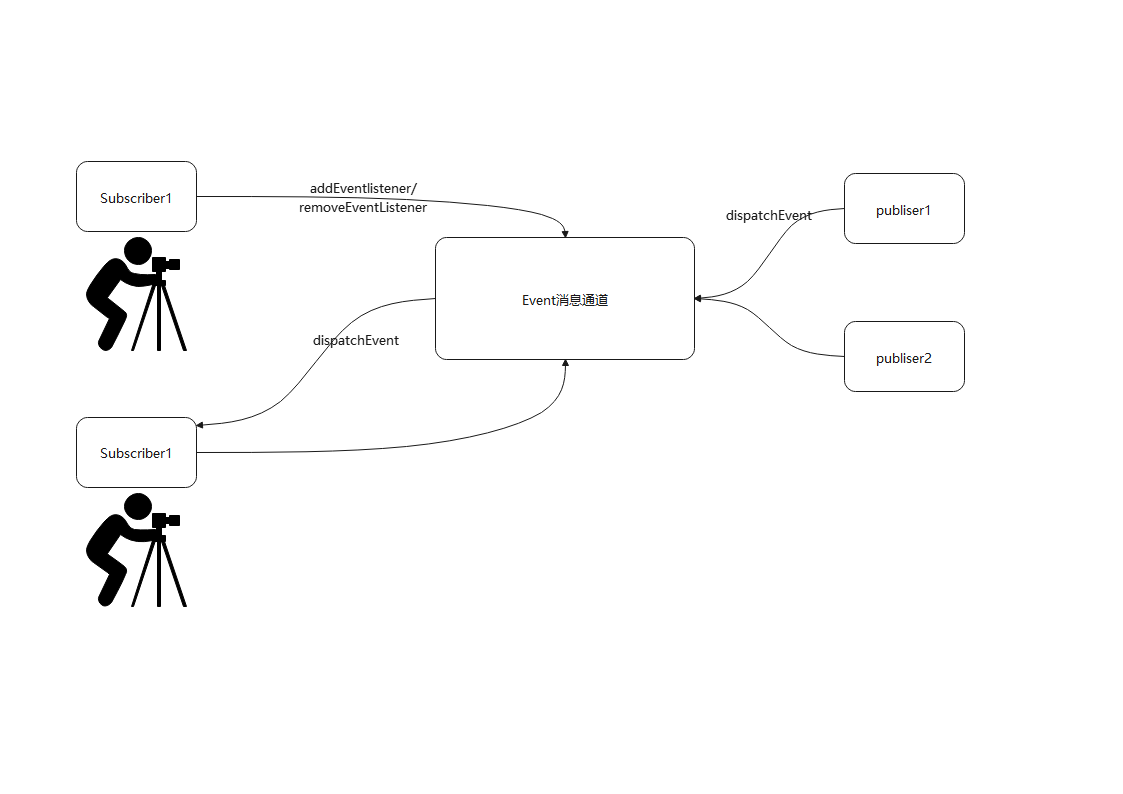
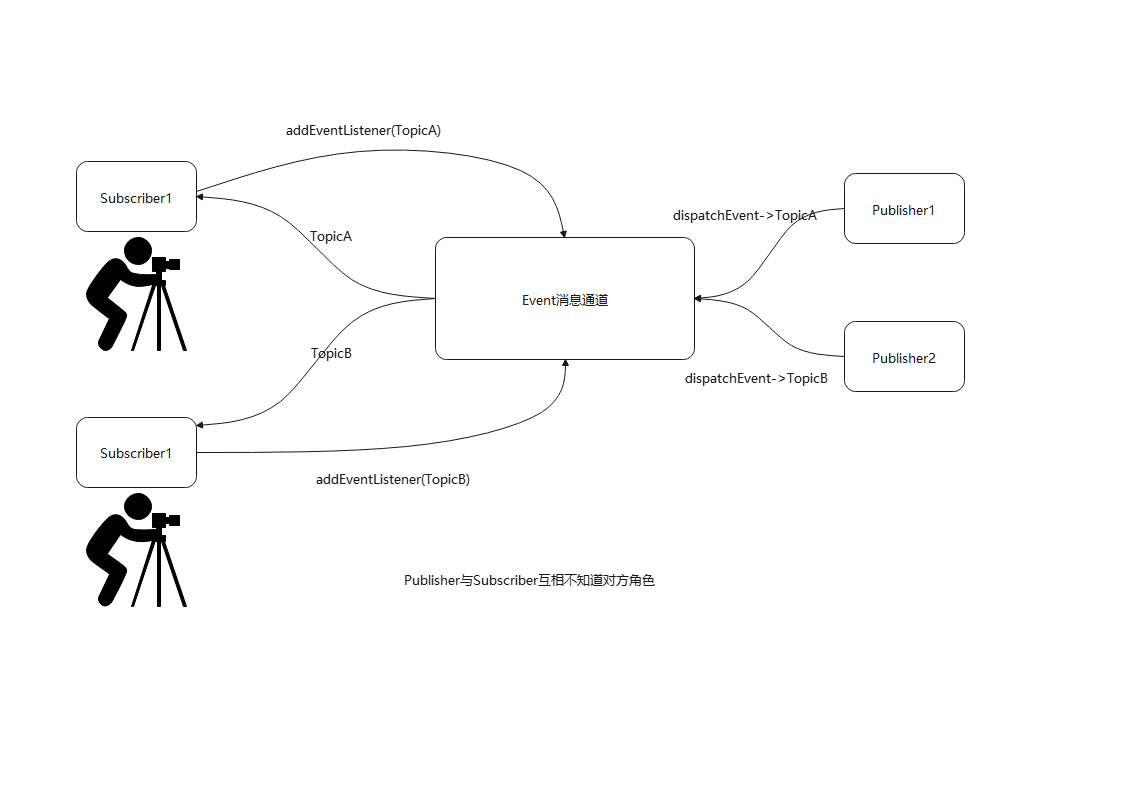
更新observer与publisher&subscriber的区别

diff --git a/designPattern/observer/README.md b/designPattern/observer/README.md
@@ -45,7 +45,8 @@ class Subject {
   sub1.add(obs2);
   sub1.notify(123);
 ```
-
+![](https://raw.githubusercontent.com/baiyonghong1989/study/main/designPattern/observer/assets/observer%E8%A7%82%E5%AF%9F%E8%80%85%E6%A8%A1%E5%BC%8F.png)
+图1：观察者模式
 ## 发布订阅模式
 基本要素：
 - Event 消息通道
@@ -96,5 +97,10 @@ publishEvent.dispatchEvent('click',12)
 
 
 **图注**
-![](https://raw.githubusercontent.com/baiyonghong1989/study/main/designPattern/observer/assets/observer%E8%A7%82%E5%AF%9F%E8%80%85%E6%A8%A1%E5%BC%8F.png)
-图1：观察者模式
+
+
+![](https://raw.githubusercontent.com/baiyonghong1989/study/main/designPattern/observer/assets/%E5%8F%91%E5%B8%83%E8%AE%A2%E9%98%85.png)
+图2：发布订阅模式
+
+附：
+[知乎-观察者模式vs发布订阅模式](https://zhuanlan.zhihu.com/p/51357583)
